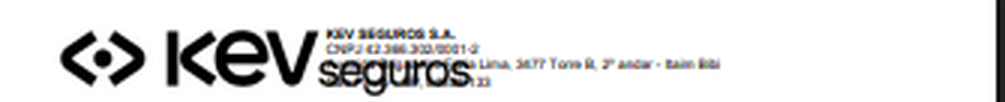
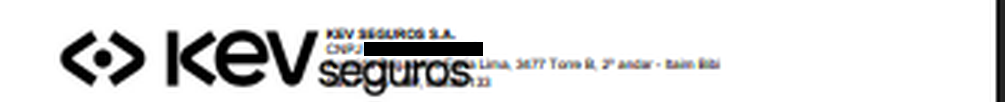
fix(8079): evidencias embutidas nos 10 CTs + CNPJ mascarado + ressalva de cobertura no CT-010
O plano publicado marcava 10/10 APROVADO mas nao referenciava NENHUMA das 31 capturas que ja
estavam em evidencias/CT-MRC-*/ — furo pego pelo revisar_entrega.py no gate de fechamento
(12 achados graves). Agora cada CT carrega suas proprias imagens, com legenda por evidencia;
quando a captura vem da pasta de outro CT, a legenda diz que e a mesma tela/rodada.

- CNPJ da seguradora estava EM CLARO na imagem do CT-MRC-006 (repo publico) -> mascarado;
  original preservado em evidencias-privadas/. Ja estava commitado desde 13/08.
- matriz-4-superficies.md e tabela-marca-x-identificador.md ainda traziam o veredito da 1a
  rodada (BLOQUEADO / REPROVADO) e uma credencial em texto -> reescritos para o estado
  pos-fix #8121, sem credencial.
- CT-MRC-010: registrada ressalva de cobertura — a impressao do protocolo (a1/a2) NAO foi
  recapturada apos o fix; a unica captura dessa superficie e de 13/08, pre-fix. Recaptura
  tentada em 14/08 e impedida por recusa de login.
- Matriz de rastreabilidade: 3 linhas "pendente" -> resultado medido.

Changed region(s): [[0.3393, 0.4118, 0.4935, 0.5588]]

diff --git a/docs/sprint-12-citweb/pbi-8079/index.html b/docs/sprint-12-citweb/pbi-8079/index.html
@@ -206,6 +206,24 @@ table.meta td:first-child{background:#0d1117;color:var(--muted);width:180px;font
     <div class="ct-section"><h4>Passos</h4><ol><li>Abrir a URL base e fazer <b>login</b>.</li><li>Na página inicial, localizar o logotipo no topo (navbar).</li><li>Capturar screenshot com o logo <b>legível</b> — não a tela inteira reduzida.</li><li>Confirmar por requisição direta que o arquivo servido mudou: baixar <code>/citnet/Content/images/LogoKOVR.png</code> e comparar <b>tamanho e md5</b> com o baseline pré-deploy (<b>15.552 bytes · PNG 769×120 · md5 ff9c6ce6…</b>, medido em 11/08).</li><li>Comparar o logo exibido com o anexo oficial do card (<i>KEV FUNDO BRANCO.jpeg</i>).</li></ol></div>
     <div class="ct-section"><h4>Resultado esperado</h4><div class="expected">A navbar exibe a marca <b>KEV SEGUROS S.A.</b> e o <code>LogoKOVR.png</code> servido tem <b>md5 diferente</b> do baseline. O md5 é o que separa “trocaram o arquivo” de “o navegador me mostrou o cache”.</div></div>
     
+        <div class="ct-section"><h4>Evid&ecirc;ncias</h4>
+      <div class="ct-ev">
+        <div style="background:#0d1f0d;border:1px solid #2ea043;border-left:4px solid #2ea043;border-radius:4px;padding:10px 12px;font-size:12px;color:#79c57e">
+          &#10003; <strong>APROVADO</strong> &mdash; Navbar de <code>/citnet/</code> exibe a marca KEV; <code>LogoKOVR.png</code> servido com o conteudo novo (nome do arquivo preservado, conteudo trocado).<br>
+          <span style="color:#8b949e">Ambiente: CITNET KOVR HML <code>/citnet/</code> &middot; 13/08/2026</span>
+        </div>
+        <img src="evidencias/CT-MRC-001/ev_CT-MRC-001_05_navbar-root-logada-KEV_20260813-174515.png" alt="EV1 — navbar de /citnet/ em sessao logada: marca KEV seguros">
+        <div style="font-size:11px;color:#8b949e;margin-top:3px">EV1 — navbar de <code>/citnet/</code> em sessao logada: marca <b>KEV seguros</b></div>
+        <img src="evidencias/CT-MRC-001/ev_CT-MRC-001_02_root-png-servido_20260813-165730.png" alt="EV2 — /citnet/Content/images/LogoKOVR.png servido pela raiz: o arquivo mantem o nome tecnico e entrega o conteudo KEV">
+        <div style="font-size:11px;color:#8b949e;margin-top:3px">EV2 — <code>/citnet/Content/images/LogoKOVR.png</code> servido pela raiz: o arquivo mantem o nome tecnico e entrega o conteudo <b>KEV</b></div>
+        <img src="evidencias/CT-MRC-001/ev_CT-MRC-001_04_root-login-bloqueado_20260813-171015.png" alt="EV3 — tela de login da raiz /citnet/ com o logo novo no topo">
+        <div style="font-size:11px;color:#8b949e;margin-top:3px">EV3 — tela de login da raiz <code>/citnet/</code> com o logo novo no topo</div>
+        <img src="evidencias/CT-MRC-001/ev_CT-MRC-001_01_navbar-alfa_20260813-165400.png" alt="EV4 — navbar da raiz /alfa/citnet/ (o 2&ordm; ambiente citado no pre-requisito 4), tambem com a marca KEV">
+        <div style="font-size:11px;color:#8b949e;margin-top:3px">EV4 — navbar da raiz <code>/alfa/citnet/</code> (o 2&ordm; ambiente citado no pre-requisito 4), tambem com a marca KEV</div>
+        <img src="evidencias/CT-MRC-001/ev_CT-MRC-001_03_alfa-png-servido_20260813-165735.png" alt="EV5 — LogoKOVR.png servido pela raiz /alfa/citnet/ (dimensao diferente da raiz, mesmo conteudo KEV)">
+        <div style="font-size:11px;color:#8b949e;margin-top:3px">EV5 — <code>LogoKOVR.png</code> servido pela raiz <code>/alfa/citnet/</code> (dimensao diferente da raiz, mesmo conteudo KEV)</div>
+      </div>
+    </div>
     <div class="ct-section"><h4>Tipo</h4><p>Positivo · o caminho mais simples, e o único que não depende de RDLC</p></div>
   </div>
 </div>
@@ -216,6 +234,22 @@ table.meta td:first-child{background:#0d1117;color:var(--muted);width:180px;font
     <div class="ct-section"><h4>Passos</h4><ol><li>Menu <b>Averbações</b> &rarr; escolher um ramo (ex.: <b>RCV</b>).</li><li>Preencher e <b>Gravar</b> uma averbação na apólice <code>59052026</code>/filial 1 (ou abrir uma averbação já existente da mesma apólice, se o CT de criação não for o objetivo).</li><li>No fim da página, clicar em <b>Imprimir</b>.</li><li>Capturar o PDF/tela gerado e <b>salvar o arquivo</b> — CT de impressão tem o arquivo como evidência obrigatória, não só o screenshot.</li><li>Verificar qual arquivo o servidor entrega: requisitar <code>/citnet/Content/images/LogoKOVR.jpg</code> e <code>LogoKOVR_Branco.png</code> e registrar o HTTP de cada um.</li><li>Repetir para <b>mais de um ramo</b> — a descrição do card diz “aplicável para todos os ramos”.</li></ol></div>
     <div class="ct-section"><h4>Resultado esperado</h4><div class="expected">A impressão do protocolo exibe o logo <b>novo</b>. <br><br>⚠ <b>Se aparecer imagem quebrada, logo antigo ou nenhum logo</b>, isso é <b>REPROVADO</b> e a causa mais provável não é o código: é o <code>.jpg</code> não estar publicado. Registrar o HTTP dos dois arquivos na evidência, porque é isso que distingue “fix não feito” de “fix feito e não publicado”. Há ainda a variante <code>Logo&lt;seg&gt;_Branco.png</code>, usada quando o indicativo <code>Ind_Logo_Branco</code> está ativo — e <code>LogoKOVR_Branco.png</code> <b>não existe no repositório</b> (o único <code>_Branco.png</code> é o do AIG).</div></div>
     
+        <div class="ct-section"><h4>Evid&ecirc;ncias</h4>
+      <div class="ct-ev">
+        <div style="background:#0d1f0d;border:1px solid #2ea043;border-left:4px solid #2ea043;border-radius:4px;padding:10px 12px;font-size:12px;color:#79c57e">
+          &#10003; <strong>APROVADO</strong> &mdash; Impressao do protocolo exibe o logo KEV. O risco n&ordm; 1 do plano (<code>LogoKOVR.jpg</code> = HTTP 404 no baseline de 11/08) nao se materializou: o <code>.jpg</code> passou a ser servido com o conteudo novo.<br>
+          <span style="color:#8b949e">Ambiente: CITNET KOVR HML <code>/citnet/</code> &middot; 13/08/2026</span>
+        </div>
+        <img src="evidencias/CT-MRC-002/ev_CT-MRC-002_03_protocolo-logo-KEV_20260813-175000.png" alt="EV1 — logo exibido na impressao do protocolo de averbacao (recorte): KEV">
+        <div style="font-size:11px;color:#8b949e;margin-top:3px">EV1 — logo exibido na <b>impressao do protocolo de averbacao</b> (recorte): KEV</div>
+        <img src="evidencias/CT-MRC-010/ev_CT-MRC-010_01_live-protocolo-logoKEV-nomeKOVR_20260813.png" alt="EV2 — cabecalho do protocolo em contexto, mesma tela e mesma rodada (13/08) capturada no CT-MRC-010: confirma que o logo KEV esta dentro do protocolo. O nome ao lado ainda e o pre-fix #8121 — o eixo NOME e do CT-MRC-007/010, nao deste CT">
+        <div style="font-size:11px;color:#8b949e;margin-top:3px">EV2 — cabecalho do protocolo em contexto, <b>mesma tela e mesma rodada (13/08)</b> capturada no CT-MRC-010: confirma que o logo KEV esta <i>dentro</i> do protocolo. O nome ao lado ainda e o pre-fix #8121 — o eixo NOME e do CT-MRC-007/010, nao deste CT</div>
+        <img src="evidencias/CT-MRC-002/ev_CT-MRC-002_02_root-jpg-servido_20260813-165745.png" alt="EV3 — LogoKOVR.jpg servido pela raiz /citnet/: HTTP 200 com conteudo KEV. E o que derruba o risco n&ordm; 1 (baseline de 11/08: 404)">
+        <div style="font-size:11px;color:#8b949e;margin-top:3px">EV3 — <code>LogoKOVR.jpg</code> servido pela raiz <code>/citnet/</code>: <b>HTTP 200</b> com conteudo KEV. E o que derruba o risco n&ordm; 1 (baseline de 11/08: 404)</div>
+        <img src="evidencias/CT-MRC-002/ev_CT-MRC-002_01_alfa-jpg-servido_20260813-165740.png" alt="EV4 — LogoKOVR.jpg servido pela raiz /alfa/citnet/">
+        <div style="font-size:11px;color:#8b949e;margin-top:3px">EV4 — <code>LogoKOVR.jpg</code> servido pela raiz <code>/alfa/citnet/</code></div>
+      </div>
+    </div>
     <div class="ct-section"><h4>Tipo</h4><p>Positivo + negativo · o CT que justifica o plano existir</p></div>
   </div>
 </div>
@@ -226,6 +260,20 @@ table.meta td:first-child{background:#0d1117;color:var(--muted);width:180px;font
     <div class="ct-section"><h4>Passos</h4><ol><li>Menu <b>Relatórios</b> &rarr; <b>Fatura Mensal</b>; informar apólice <code>59</code>/filial <code>1</code>/subgrupo <code>1</code>/competência <code>02/2026</code>.</li><li>Selecionar <b>Resumo</b> &rarr; <b>Consultar</b> (tela) e <b>Imprimir / PDF</b> (arquivo).</li><li>Voltar e selecionar <b>Relação de Embarques</b> &rarr; <b>Consultar</b> &rarr; <b>Imprimir / PDF</b> e também <b>Exportar Relação Simplificada</b>.</li><li>Menu <b>Relatórios</b> &rarr; <b>Consulta</b> (Averbação), informar a apólice, <b>Consultar</b> &rarr; <b>Imprimir</b>.</li><li>Repetir a Relação de Embarques para um ramo <b>nacional</b> (54 ou 55) e para o <b>internacional</b> — a descrição diz “aplicável para o Nacional e Internacional”.</li><li><b>Salvar cada arquivo gerado</b> e conferir o logo dentro dele.</li></ol></div>
     <div class="ct-section"><h4>Resultado esperado</h4><div class="expected">Todos os relatórios exibem o logo <b>novo</b>, em <b>tela e no arquivo</b>. Como os 19 RDLCs leem o mesmo parâmetro, o esperado é <b>comportamento uniforme</b>: se um exibir novo e outro antigo, o problema não é o RDLC — é cache de imagem ou dois arquivos concorrentes (<code>.png</code> × <code>.jpg</code>).</div></div>
     <div class="info-box"><b>Detalhe de herança, sem impacto:</b> os RDLCs de Relação/Resumo carregam uma <code>&lt;EmbeddedImage Name="logoHDI"&gt;</code> com ~3,2 KB de base64 dentro, resíduo de copy-paste de outra seguradora. Ela <b>não</b> é a imagem exibida (o <code>Image1</code> aponta para o parâmetro). Não mexer nela — e não trocá-la por engano pensando que é o logo da KOVR.</div>
+        <div class="ct-section"><h4>Evid&ecirc;ncias</h4>
+      <div class="ct-ev">
+        <div style="background:#0d1f0d;border:1px solid #2ea043;border-left:4px solid #2ea043;border-radius:4px;padding:10px 12px;font-size:12px;color:#79c57e">
+          &#10003; <strong>APROVADO</strong> &mdash; Relatorios exibem o logo KEV — os RDLC leem o logo por parametro de runtime, entao a troca do arquivo cobre todos de uma vez.<br>
+          <span style="color:#8b949e">Ambiente: CITNET KOVR HML <code>/citnet/</code> &middot; 13 e 14/08/2026</span>
+        </div>
+        <img src="evidencias/CT-MRC-003/ev_CT-MRC-003_01_logo-no-relatorio-KEV_20260813-175300.png" alt="EV1 — logo renderizado no relatorio (recorte): KEV">
+        <div style="font-size:11px;color:#8b949e;margin-top:3px">EV1 — logo renderizado no relatorio (recorte): KEV</div>
+        <img src="evidencias/CT-MRC-005/03-relatorio-consulta-header-KEV.png" alt="EV2 — cabecalho da Consulta de Averbacoes (Nacional) em contexto, com o logo KEV e o titulo do relatorio. Mesma tela e mesma rodada (14/08) da matriz consolidada do CT-MRC-005">
+        <div style="font-size:11px;color:#8b949e;margin-top:3px">EV2 — cabecalho da <b>Consulta de Averbacoes (Nacional)</b> em contexto, com o logo KEV e o titulo do relatorio. <b>Mesma tela e mesma rodada (14/08)</b> da matriz consolidada do CT-MRC-005</div>
+        <img src="evidencias/CT-MRC-005/03b-relatorio-internacional-header-KEV.png" alt="EV3 — cabecalho da Consulta de Averbacoes Internacionais (Exportacao), mesma rodada (14/08) do CT-MRC-005: cobre o "Nacional e Internacional" da descricao do card">
+        <div style="font-size:11px;color:#8b949e;margin-top:3px">EV3 — cabecalho da <b>Consulta de Averbacoes Internacionais (Exportacao)</b>, <b>mesma rodada (14/08)</b> do CT-MRC-005: cobre o "Nacional e Internacional" da descricao do card</div>
+      </div>
+    </div>
     <div class="ct-section"><h4>Tipo</h4><p>Positivo · cobertura ampla por um único ponto de leitura</p></div>
   </div>
 </div>
@@ -236,6 +284,20 @@ table.meta td:first-child{background:#0d1117;color:var(--muted);width:180px;font
     <div class="ct-section"><h4>Passos</h4><ol><li><b>Certificado de exportação:</b> menu <b>Averbações</b> &rarr; <b>Internacional</b> &rarr; <b>Exportação</b>; gravar uma averbação; clicar em <b>Certificado</b>; preencher o formulário; <b>Gravar</b>; <b>Imprimir</b>. Conferir <b>frente e verso</b>.</li><li><b>Certificado RCV:</b> menu <b>Relatórios</b> &rarr; <b>Consulta</b> (tipo Nacional); informar a apólice; clicar em <b>Gerar Certificado</b> e também em <b>Gerar Todos os Certificados (ZIP)</b>.</li><li>Salvar os arquivos (PDF e o ZIP) e conferir o logo <b>dentro</b> de cada um.</li><li>No ZIP, abrir <b>mais de um</b> certificado — a geração em lote passa pelo mesmo RDLC, mas é onde um parâmetro por iteração poderia falhar só em alguns.</li></ol></div>
     <div class="ct-section"><h4>Resultado esperado</h4><div class="expected">Os três certificados exibem o logo <b>novo</b>, frente e verso, tanto na geração individual quanto na em lote (ZIP).</div></div>
     
+        <div class="ct-section"><h4>Evid&ecirc;ncias</h4>
+      <div class="ct-ev">
+        <div style="background:#0d1f0d;border:1px solid #2ea043;border-left:4px solid #2ea043;border-radius:4px;padding:10px 12px;font-size:12px;color:#79c57e">
+          &#10003; <strong>APROVADO</strong> &mdash; Certificados (RCV e Exportacao) exibem o logo KEV, na geracao individual.<br>
+          <span style="color:#8b949e">Ambiente: CITNET KOVR HML <code>/citnet/</code> &middot; 13 e 14/08/2026</span>
+        </div>
+        <img src="evidencias/CT-MRC-004/ev_CT-MRC-004_01_logo-certificado-rcv-KEV_20260813-180000.png" alt="EV1 — logo no certificado RCV (recorte): KEV">
+        <div style="font-size:11px;color:#8b949e;margin-top:3px">EV1 — logo no <b>certificado RCV</b> (recorte): KEV</div>
+        <img src="evidencias/CT-MRC-004/ev_CT-MRC-004_02_logo-certificado-exportacao-KEV_20260813-181700.jpg" alt="EV2 — logo no certificado de Exportacao (recorte): KEV">
+        <div style="font-size:11px;color:#8b949e;margin-top:3px">EV2 — logo no <b>certificado de Exportacao</b> (recorte): KEV</div>
+        <img src="evidencias/CT-MRC-005/04-certificado-rcv-banner-KEV.png" alt="EV3 — banner do certificado RCV em contexto (logo + titulo "CERTIFICADO INDIVIDUAL DE SEGURO"), mesma rodada (14/08) da matriz do CT-MRC-005: prova o logo dentro do certificado gerado, nao so o arquivo de imagem">
+        <div style="font-size:11px;color:#8b949e;margin-top:3px">EV3 — banner do certificado RCV em contexto (logo + titulo "CERTIFICADO INDIVIDUAL DE SEGURO"), <b>mesma rodada (14/08)</b> da matriz do CT-MRC-005: prova o logo <i>dentro</i> do certificado gerado, nao so o arquivo de imagem</div>
+      </div>
+    </div>
     <div class="ct-section"><h4>Tipo</h4><p>Positivo · saída para o cliente final, com maior custo de erro</p></div>
   </div>
 </div>
@@ -246,6 +308,29 @@ table.meta td:first-child{background:#0d1117;color:var(--muted);width:180px;font
     <div class="ct-section"><h4>Passos</h4><ol><li>Numa <b>única</b> sessão de navegador, e sem limpar sessão entre os passos: capturar a navbar, gerar a impressão do protocolo, gerar um relatório e gerar um certificado.</li><li>Montar uma tabela lado a lado: <b>superfície × logo exibido (novo/antigo/ausente)</b>.</li><li>⛔ <b>Furar o cache</b> em cada requisição de imagem (query string única ou hard reload) — cache do navegador é a causa clássica de “metade trocou”.</li></ol></div>
     <div class="ct-section"><h4>Resultado esperado</h4><div class="expected">As <b>quatro</b> superfícies exibem o <b>mesmo</b> logo novo. <br><br>Qualquer combinação mista — relatórios novos e protocolo antigo, por exemplo — é <b>REPROVADO</b> e aponta diretamente para a divergência de extensão (<code>.png</code> preferido pelos relatórios × <code>.jpg</code> fixo no protocolo). É este CT que transforma um detalhe de implementação num resultado observável.</div></div>
     
+        <div class="ct-section"><h4>Evid&ecirc;ncias</h4>
+      <div class="ct-ev">
+        <div style="background:#0d1f0d;border:1px solid #2ea043;border-left:4px solid #2ea043;border-radius:4px;padding:10px 12px;font-size:12px;color:#79c57e">
+          &#10003; <strong>APROVADO</strong> &mdash; 4/4 superficies com o mesmo logo KEV — nenhum estado misto. <code>.png</code> (navbar/relatorios) e <code>.jpg</code> (protocolo) convergem no logo novo.<br>
+          <span style="color:#8b949e">Ambiente: CITNET KOVR HML <code>/citnet/</code> &middot; 14/08/2026</span>
+        </div>
+        <img src="evidencias/CT-MRC-005/01-navbar-logo-KEV.png" alt="EV1 — superficie 1/4: navbar em sessao logada (14/08), logo KEV">
+        <div style="font-size:11px;color:#8b949e;margin-top:3px">EV1 — superficie 1/4: <b>navbar</b> em sessao logada (14/08), logo KEV</div>
+        <img src="evidencias/CT-MRC-002/ev_CT-MRC-002_03_protocolo-logo-KEV_20260813-175000.png" alt="EV2 — superficie 2/4: impressao do protocolo, logo KEV. Mesma tela e mesma rodada (13/08) do CT-MRC-002 — o fix do #8121 mexeu so no nome, nao no logo, entao a captura permanece valida para este eixo">
+        <div style="font-size:11px;color:#8b949e;margin-top:3px">EV2 — superficie 2/4: <b>impressao do protocolo</b>, logo KEV. <b>Mesma tela e mesma rodada (13/08)</b> do CT-MRC-002 — o fix do #8121 mexeu so no nome, nao no logo, entao a captura permanece valida para este eixo</div>
+        <img src="evidencias/CT-MRC-005/03-relatorio-consulta-header-KEV.png" alt="EV3 — superficie 3/4: relatorio Nacional (Consulta de Averbacoes), logo KEV">
+        <div style="font-size:11px;color:#8b949e;margin-top:3px">EV3 — superficie 3/4: <b>relatorio Nacional</b> (Consulta de Averbacoes), logo KEV</div>
+        <img src="evidencias/CT-MRC-005/03b-relatorio-internacional-header-KEV.png" alt="EV4 — superficie 3b/4: relatorio Internacional (Exportacao), logo KEV">
+        <div style="font-size:11px;color:#8b949e;margin-top:3px">EV4 — superficie 3b/4: <b>relatorio Internacional</b> (Exportacao), logo KEV</div>
+        <img src="evidencias/CT-MRC-005/04-certificado-rcv-banner-KEV.png" alt="EV5 — superficie 4/4: certificado RCV, logo KEV no banner">
+        <div style="font-size:11px;color:#8b949e;margin-top:3px">EV5 — superficie 4/4: <b>certificado RCV</b>, logo KEV no banner</div>
+        <img src="evidencias/CT-MRC-005/04b-certificado-seguradora-KEV-cnpj-masked.png" alt="EV6 — bloco "DADOS DA SEGURADORA" do mesmo certificado: razao social KEV SEGUROS S.A. e SUSEP 6921 preservada (CNPJ mascarado — repositorio publico)">
+        <div style="font-size:11px;color:#8b949e;margin-top:3px">EV6 — bloco "DADOS DA SEGURADORA" do mesmo certificado: razao social <b>KEV SEGUROS S.A.</b> e SUSEP 6921 preservada (CNPJ mascarado — repositorio publico)</div>
+        <img src="evidencias/CT-MRC-005/ev_CT-MRC-005_01_live-navbar-login-logoKEV_20260813.png" alt="EV7 — navbar da tela de login (13/08), logo KEV: a 1&ordf; rodada ja media 4/4 no eixo logo, mas sem o artefato consolidado em sessao logada">
+        <div style="font-size:11px;color:#8b949e;margin-top:3px">EV7 — navbar da tela de login (13/08), logo KEV: a 1&ordf; rodada ja media 4/4 no eixo logo, mas sem o artefato consolidado em sessao logada</div>
+        <div style="font-size:12px;margin-top:10px">&#128196; <a href="evidencias/CT-MRC-005/matriz-4-superficies.md" style="color:#a78bfa">matriz-4-superficies.md</a> &mdash; Matriz consolidada das 4 superficies (superficie &times; fonte do logo &times; logo exibido &times; captura)</div>
+      </div>
+    </div>
     <div class="ct-section"><h4>Tipo</h4><p>Integração · desenhado para pegar o risco nº 1 deste card</p></div>
   </div>
 </div>
@@ -257,6 +342,18 @@ table.meta td:first-child{background:#0d1117;color:var(--muted);width:180px;font
     <div class="ct-section"><h4>Passos</h4><ol><li>Gerar os três certificados pelos caminhos do CT-MRC-004.</li><li>Em cada arquivo salvo, localizar o nome da seguradora e <b>ler o texto exato</b>.</li><li>Registrar o texto obtido literalmente, sem parafrasear.</li></ol></div>
     <div class="ct-section"><h4>Resultado esperado</h4><div class="expected">Os três exibem <b>KEV SEGUROS S.A.</b> e <b>nenhuma</b> ocorrência de “KOVR Seguradora” ou “KOVR” como nome de marca.</div></div>
     
+        <div class="ct-section"><h4>Evid&ecirc;ncias</h4>
+      <div class="ct-ev">
+        <div style="background:#0d1f0d;border:1px solid #2ea043;border-left:4px solid #2ea043;border-radius:4px;padding:10px 12px;font-size:12px;color:#79c57e">
+          &#10003; <strong>APROVADO</strong> &mdash; Os certificados com o nome <b>hardcoded no RDLC</b> exibem <b>KEV SEGUROS S.A.</b> — este eixo ja estava correto antes do fix do #8121.<br>
+          <span style="color:#8b949e">Ambiente: CITNET KOVR HML <code>/citnet/</code> &middot; 13 e 14/08/2026</span>
+        </div>
+        <img src="evidencias/CT-MRC-006/ev_CT-MRC-006_01_certificado-header-nome-KEV_20260813-181900.png" alt="EV1 — cabecalho do certificado: nome KEV SEGUROS S.A. vindo do texto hardcoded no RDLC (CNPJ mascarado — repositorio publico)">
+        <div style="font-size:11px;color:#8b949e;margin-top:3px">EV1 — cabecalho do certificado: nome <b>KEV SEGUROS S.A.</b> vindo do texto <b>hardcoded no RDLC</b> (CNPJ mascarado — repositorio publico)</div>
+        <img src="evidencias/CT-MRC-005/04b-certificado-seguradora-KEV-cnpj-masked.png" alt="EV2 — bloco "DADOS DA SEGURADORA" do certificado RCV: Razao Social: KEV SEGUROS S.A. e Codigo SUSEP: 6921. Mesma tela e mesma rodada (14/08) da matriz do CT-MRC-005">
+        <div style="font-size:11px;color:#8b949e;margin-top:3px">EV2 — bloco "DADOS DA SEGURADORA" do certificado RCV: <code>Razao Social: KEV SEGUROS S.A.</code> e <code>Codigo SUSEP: 6921</code>. <b>Mesma tela e mesma rodada (14/08)</b> da matriz do CT-MRC-005</div>
+      </div>
+    </div>
     <div class="ct-section"><h4>Tipo</h4><p>Positivo · o único caminho de nome que exige mexer no RDLC</p></div>
   </div>
 </div>
@@ -267,6 +364,20 @@ table.meta td:first-child{background:#0d1117;color:var(--muted);width:180px;font
     <div class="ct-section"><h4>Passos</h4><ol><li>Gerar Resumo de Embarques, Relação de Embarques (Nacional e Internacional), Relação Simplificada e Impressão da Consulta, pelos caminhos do CT-MRC-003.</li><li>Em cada saída, ler o nome exibido e anotar <b>qual dos dois textos</b> apareceu.</li><li>Cruzar com a foto pré-deploy: a saída que <b>já exibia</b> “KEV” antes da entrega lê do <b>banco</b>; a que exibia “KOVR Seguradora” lê do <code>infoCliente</code> ou do RDLC.</li><li>Conferir o valor de <code>tb_cad_seg.n_seg</code> no banco no momento do teste, para não atribuir ao código uma mudança que veio de dados.</li></ol></div>
     <div class="ct-section"><h4>Resultado esperado</h4><div class="expected">Todas as saídas exibem <b>KEV SEGUROS S.A.</b> — e, para cada uma, fica <b>documentado de qual fonte</b> ela lê. <br><br>⛔ <b>Anti-falso-positivo obrigatório:</b> “a tela mostra KEV” <b>não</b> prova que a entrega funcionou, porque o banco já estava trocado antes de o desenvolvimento terminar. O que aprova este CT é a comparação <b>antes × depois por saída</b>, não o texto final isolado.</div></div>
     
+        <div class="ct-section"><h4>Evid&ecirc;ncias</h4>
+      <div class="ct-ev">
+        <div style="background:#0d1f0d;border:1px solid #2ea043;border-left:4px solid #2ea043;border-radius:4px;padding:10px 12px;font-size:12px;color:#79c57e">
+          &#10003; <strong>APROVADO</strong> &mdash; Par <b>antes &times; depois</b> por saida: 13/08 (pre-fix) exibia <code>KOVR Seguradora</code>; 14/08 (pos-fix #8121) exibe <code>KEV SEGUROS S.A.</code> — o anti-falso-positivo que o CT exige.<br>
+          <span style="color:#8b949e">Ambiente: CITNET KOVR HML <code>/citnet/</code> &middot; 13 (antes) e 14/08/2026 (depois)</span>
+        </div>
+        <img src="evidencias/CT-MRC-007/ev_CT-MRC-007_01_protocolo-header-nome-KOVR_20260813-181800.png" alt="EV1 — ANTES (13/08, pre-fix #8121): cabecalho exibindo KOVR Seguradora - Averbacao - Diaria, o valor do infoCliente indice 2 nao migrado">
+        <div style="font-size:11px;color:#8b949e;margin-top:3px">EV1 — <b>ANTES (13/08, pre-fix #8121)</b>: cabecalho exibindo <code>KOVR Seguradora - Averbacao - Diaria</code>, o valor do <code>infoCliente</code> indice 2 nao migrado</div>
+        <img src="evidencias/CT-MRC-007/consulta-averbacoes-nacional-header-KEV.png" alt="EV2 — DEPOIS (14/08, pos-fix): KEV SEGUROS S.A. - CONSULTA DE AVERBACOES no relatorio Nacional. Comparado ao EV1, e a mudanca por saida que o CT exige — nao o texto final isolado">
+        <div style="font-size:11px;color:#8b949e;margin-top:3px">EV2 — <b>DEPOIS (14/08, pos-fix)</b>: <code>KEV SEGUROS S.A. - CONSULTA DE AVERBACOES</code> no relatorio Nacional. Comparado ao EV1, e a mudanca por saida que o CT exige — nao o texto final isolado</div>
+        <img src="evidencias/CT-MRC-007/consulta-averbacoes-internacional-exportacao-header-KEV.png" alt="EV3 — DEPOIS (14/08): KEV SEGUROS S.A. - CONSULTA DE AVERBACOES INTERNACIONAIS - Exportacao">
+        <div style="font-size:11px;color:#8b949e;margin-top:3px">EV3 — <b>DEPOIS (14/08)</b>: <code>KEV SEGUROS S.A. - CONSULTA DE AVERBACOES INTERNACIONAIS - Exportacao</code></div>
+      </div>
+    </div>
     <div class="ct-section"><h4>Tipo</h4><p>Positivo · e o CT que mais facilmente passaria pelo motivo errado</p></div>
   </div>
 </div>
@@ -277,6 +388,16 @@ table.meta td:first-child{background:#0d1117;color:var(--muted);width:180px;font
     <div class="ct-section"><h4>Passos</h4><ol><li>Após o deploy, identificar uma saída que comprovadamente lê do <code>infoCliente</code> (definida no CT-MRC-007) e conferir o nome exibido.</li><li>Confirmar que <b>somente o índice 2</b> mudou: os índices 0 e 4 devem continuar <code>KOVR</code> (é isso que o CT-MRC-009 protege).</li><li>Se houver tela administrativa que exiba a razão social vinda de configuração, conferir lá também.</li></ol></div>
     <div class="ct-section"><h4>Resultado esperado</h4><div class="expected">A saída que lê do <code>infoCliente</code> passa a exibir <b>KEV SEGUROS S.A.</b>, e os demais campos do <code>infoCliente</code> permanecem inalterados.</div></div>
     
+        <div class="ct-section"><h4>Evid&ecirc;ncias</h4>
+      <div class="ct-ev">
+        <div style="background:#0d1f0d;border:1px solid #2ea043;border-left:4px solid #2ea043;border-radius:4px;padding:10px 12px;font-size:12px;color:#79c57e">
+          &#10003; <strong>APROVADO</strong> &mdash; O valor migrado do <code>infoCliente</code> indice 2 e o que a aplicacao resolve em runtime: <code>document.title</code> passou de <code>KOVR Seguradora- CitNet</code> para <code>KEV SEGUROS S.A.- CitNet</code>. Indices 0 e 4 permanecem <code>KOVR</code> (identificador tecnico).<br>
+          <span style="color:#8b949e">Ambiente: CITNET KOVR HML <code>/citnet/</code> &middot; 14/08/2026</span>
+        </div>
+        <img src="evidencias/CT-MRC-008/login-title-infoCliente2-KEV.png" alt="EV1 — document.title = 'KEV SEGUROS S.A.- CitNet' (pos-fix). A anotacao registra o valor pre-fix ('KOVR Seguradora- CitNet') e que o residual KOVR restante e so identificador tecnico (LogoKOVR.png, CitNet-KOVR.css, layout-kovr.js)">
+        <div style="font-size:11px;color:#8b949e;margin-top:3px">EV1 — <code>document.title</code> = <code>'KEV SEGUROS S.A.- CitNet'</code> (pos-fix). A anotacao registra o valor pre-fix (<code>'KOVR Seguradora- CitNet'</code>) e que o residual <code>KOVR</code> restante e so identificador tecnico (<code>LogoKOVR.png</code>, <code>CitNet-KOVR.css</code>, <code>layout-kovr.js</code>)</div>
+      </div>
+    </div>
     <div class="ct-section"><h4>Tipo</h4><p>Positivo + regressão de configuração</p></div>
   </div>
 </div>
@@ -288,6 +409,16 @@ table.meta td:first-child{background:#0d1117;color:var(--muted);width:180px;font
     <div class="ct-section"><h4>Passos</h4><ol><li>Fazer <b>login</b> normalmente e confirmar que a autenticação funciona.</li><li>Navegar por <b>Averbações</b>, <b>Relatórios</b> e <b>Faturamento</b> e confirmar que as telas carregam (o <code>idLayout</code> errado quebraria a resolução do logo e do RDLC).</li><li>Gravar <b>uma averbação nova</b> e confirmar que ela persiste — o caminho de gravação passa pelo mesmo <code>infoCliente</code>.</li><li>Conferir no banco que os identificadores não mudaram: <code>c_seg_ssp</code> / SUSEP e <code>id_seg</code> em <code>tb_cad_seg</code>, e a conexão continuar apontando para <code>smt-hom-citweb-kovr</code>.</li></ol></div>
     <div class="ct-section"><h4>Resultado esperado</h4><div class="expected">Login, navegação, geração de relatório e <b>gravação</b> continuam funcionando; SUSEP, <code>id_seg</code>, base e <code>Empresa</code>/<code>CodigoSeguradora</code> inalterados. <br><br>Uma troca de marca é cirúrgica por definição: se algo <b>funcional</b> mudou, é regressão, não escopo.</div></div>
     
+        <div class="ct-section"><h4>Evid&ecirc;ncias</h4>
+      <div class="ct-ev">
+        <div style="background:#0d1f0d;border:1px solid #2ea043;border-left:4px solid #2ea043;border-radius:4px;padding:10px 12px;font-size:12px;color:#79c57e">
+          &#10003; <strong>APROVADO</strong> &mdash; Identificadores tecnicos preservados: <code>id_seg</code> = 1 e SUSEP 6921 inalterados, base <code>smt-hom-citweb-kovr</code> mantida, e gravacao funcionando (1 averbacao persistida na apolice 59052026).<br>
+          <span style="color:#8b949e">Ambiente: CITNET KOVR HML <code>/citnet/</code> &middot; 13/08/2026</span>
+        </div>
+        <img src="evidencias/CT-MRC-009/ev_CT-MRC-009_01_snapshot-identificadores-mascarado_20260813.png" alt="EV1 — snapshot da base smt-hom-citweb-kovr: id_seg = 1 e c_seg_ssp (SUSEP) = 6921 preservados, n_seg migrado para KEV SEGUROS S.A., e 1 averbacao persistida na apolice 59052026 (u_avb = 2026000001) — gravacao funcionando. CNPJ mascarado">
+        <div style="font-size:11px;color:#8b949e;margin-top:3px">EV1 — snapshot da base <code>smt-hom-citweb-kovr</code>: <code>id_seg</code> = 1 e <code>c_seg_ssp</code> (SUSEP) = 6921 <b>preservados</b>, <code>n_seg</code> migrado para <b>KEV SEGUROS S.A.</b>, e 1 averbacao persistida na apolice 59052026 (<code>u_avb</code> = 2026000001) — gravacao funcionando. CNPJ mascarado</div>
+      </div>
+    </div>
     <div class="ct-section"><h4>Tipo</h4><p>Regressão · obrigatória (o plano não fecha sem ela)</p></div>
   </div>
 </div>
@@ -298,6 +429,25 @@ table.meta td:first-child{background:#0d1117;color:var(--muted);width:180px;font
     <div class="ct-section"><h4>Passos</h4><ol><li>Varrer o <b>texto</b> de cada arquivo salvo (PDF/XLSX/tela) procurando <code>KOVR</code> e <code>KOVR Seguradora</code>.</li><li>⛔ <b>Classificar cada achado</b> antes de reportar, em duas colunas: <b>(a) marca exibida ao usuário</b> &rarr; deve ter mudado; <b>(b) identificador técnico</b> (nome de arquivo, URL, nome da base, chave de configuração, código interno) &rarr; <b>deve continuar KOVR</b>.</li><li>Para cada achado do tipo (a), registrar o local exato e abrir na discussão que o card pede.</li><li>Repetir a varredura na <b>interface</b> (menus, títulos, rodapé, e-mails se houver), não só nos arquivos.</li></ol></div>
     <div class="ct-section"><h4>Resultado esperado</h4><div class="expected">Zero ocorrências de “KOVR” <b>como marca exibida</b> nas saídas citadas na descrição. <br><br>⛔ <b>“Sumiu todo KOVR” seria falso positivo</b> — e reprovaria uma implementação correta. A evidência deste CT é a <b>tabela classificada</b>, não a contagem bruta: sem separar marca de identificador, o resultado não significa nada.</div></div>
     
+        <div class="ct-section"><h4>Evid&ecirc;ncias</h4>
+      <div class="ct-ev">
+        <div style="background:#1f1a0d;border:1px solid #d29922;border-left:4px solid #d29922;border-radius:4px;padding:10px 12px;font-size:12px;color:#e3b341">
+          &#9888; <strong>APROVADO — com ressalva de cobertura</strong> &mdash; 3 das 5 superficies de marca recapturadas pos-fix exibem <code>KEV SEGUROS S.A.</code> e os identificadores tecnicos seguem <code>KOVR</code> (correto). <b>a1/a2 (cabecalho e corpo da impressao do protocolo) NAO foram recapturados pos-fix</b> — recaptura tentada em 14/08 e impedida por recusa de login. Ver a ressalva na tabela classificada.<br>
+          <span style="color:#8b949e">Ambiente: CITNET KOVR HML <code>/citnet/</code> &middot; 13 e 14/08/2026</span>
+        </div>
+        <img src="evidencias/CT-MRC-010/login-document-title-KEV.png" alt="EV1 — a5 (marca): document.title = 'KEV SEGUROS S.A.- CitNet' pos-fix">
+        <div style="font-size:11px;color:#8b949e;margin-top:3px">EV1 — <b>a5</b> (marca): <code>document.title</code> = <code>'KEV SEGUROS S.A.- CitNet'</code> pos-fix</div>
+        <img src="evidencias/CT-MRC-007/consulta-averbacoes-nacional-header-KEV.png" alt="EV2 — a3 (marca): cabecalho do relatorio Nacional com KEV SEGUROS S.A.. Mesma tela e mesma rodada (14/08) do CT-MRC-007">
+        <div style="font-size:11px;color:#8b949e;margin-top:3px">EV2 — <b>a3</b> (marca): cabecalho do relatorio Nacional com <code>KEV SEGUROS S.A.</code>. <b>Mesma tela e mesma rodada (14/08)</b> do CT-MRC-007</div>
+        <img src="evidencias/CT-MRC-007/consulta-averbacoes-internacional-exportacao-header-KEV.png" alt="EV3 — a4 (marca): cabecalho do relatorio Internacional com KEV SEGUROS S.A., mesma rodada (14/08) do CT-MRC-007">
+        <div style="font-size:11px;color:#8b949e;margin-top:3px">EV3 — <b>a4</b> (marca): cabecalho do relatorio Internacional com <code>KEV SEGUROS S.A.</code>, <b>mesma rodada (14/08)</b> do CT-MRC-007</div>
+        <img src="evidencias/CT-MRC-010/ev_CT-MRC-010_01_live-protocolo-logoKEV-nomeKOVR_20260813.png" alt="EV4 — a1/a2 (marca): unica captura da impressao do protocolo, de 13/08 (PRE-fix #8121), exibindo KOVR Seguradora - Averbacao - Diaria. Esta superficie nao foi recapturada apos o fix — e a ressalva de cobertura deste CT, nao uma falha observada">
+        <div style="font-size:11px;color:#8b949e;margin-top:3px">EV4 — <b>a1/a2</b> (marca): unica captura da impressao do protocolo, <b>de 13/08 (PRE-fix #8121)</b>, exibindo <code>KOVR Seguradora - Averbacao - Diaria</code>. <b>Esta superficie nao foi recapturada apos o fix</b> — e a ressalva de cobertura deste CT, nao uma falha observada</div>
+        <img src="evidencias/CT-MRC-009/ev_CT-MRC-009_01_snapshot-identificadores-mascarado_20260813.png" alt="EV5 — eixo (b) identificador tecnico: id_seg = 1 e SUSEP 6921 preservados. Mesma medicao (13/08) do CT-MRC-009 — e o que impede o falso positivo "sumiu todo KOVR"">
+        <div style="font-size:11px;color:#8b949e;margin-top:3px">EV5 — eixo <b>(b) identificador tecnico</b>: <code>id_seg</code> = 1 e SUSEP 6921 preservados. <b>Mesma medicao (13/08)</b> do CT-MRC-009 — e o que impede o falso positivo "sumiu todo KOVR"</div>
+        <div style="font-size:12px;margin-top:10px">&#128196; <a href="evidencias/CT-MRC-010/tabela-marca-x-identificador.md" style="color:#a78bfa">tabela-marca-x-identificador.md</a> &mdash; Tabela classificada <b>MARCA &times; IDENTIFICADOR</b> — a evidencia central deste CT, com a ressalva de cobertura de a1/a2</div>
+      </div>
+    </div>
     <div class="ct-section"><h4>Tipo</h4><p>Negativo / exploratório · guiado pelo pedido explícito do card</p></div>
   </div>
 </div>
@@ -309,14 +459,19 @@ table.meta td:first-child{background:#0d1117;color:var(--muted);width:180px;font
     <tr><td><b>CA-01</b> — “Todos os locais citados devem contemplar a alteração de logo no formato
     que os prints indicam”</td>
     <td>CT-MRC-001 (navbar) · CT-MRC-002 (protocolo) · CT-MRC-003 (relatórios) ·
-    CT-MRC-004 (certificados) · CT-MRC-005 (troca parcial)</td><td>pendente</td></tr>
+    CT-MRC-004 (certificados) · CT-MRC-005 (troca parcial)</td>
+    <td><b style="color:#2ea043">5/5 APROVADO</b> — logo KEV nas 4 superfícies, sem estado misto</td></tr>
     <tr><td><b>CA-02</b> — “Todos os locais citados devem contemplar a alteração do nome de KOVR
     e/ou KOVR Seguradora para KEV SEGUROS S.A.”</td>
     <td>CT-MRC-006 (certificados, hardcoded) · CT-MRC-007 (relatórios, por fonte) ·
-    CT-MRC-008 (<code>infoCliente</code>) · CT-MRC-010 (caça-string)</td><td>pendente</td></tr>
+    CT-MRC-008 (<code>infoCliente</code>) · CT-MRC-010 (caça-string)</td>
+    <td><b style="color:#2ea043">4/4 APROVADO</b> após o fix do <b>Bug #8121</b> —
+    <span style="color:#d29922">com ressalva no CT-MRC-010: a impressão do protocolo (a1/a2)
+    não foi recapturada pós-fix</span></td></tr>
     <tr><td><b>Implícito</b> — troca cirúrgica, sem efeito colateral funcional
     (do refinamento técnico)</td><td>CT-MRC-009 (regressão do identificador técnico)</td>
-    <td>pendente</td></tr>
+    <td><b style="color:#2ea043">APROVADO</b> — <code>id_seg</code>, SUSEP, base e chaves
+    técnicas inalterados; gravação funcionando</td></tr>
   </table>
   <p><b>Cobertura:</b> 2 de 2 critérios de aceite cobertos, mais 1 critério implícito que o
   refinamento técnico torna explícito. 10 CTs — 6 P1, 4 P2.</p>

diff --git a/docs/sprint-12-citweb/pbi-8079/evidencias/CT-MRC-010/tabela-marca-x-identificador.md b/docs/sprint-12-citweb/pbi-8079/evidencias/CT-MRC-010/tabela-marca-x-identificador.md
@@ -1,20 +1,44 @@
 # CT-MRC-010 — Caça-string "KOVR": classificação MARCA × IDENTIFICADOR
 
-Medido em 13/08/2026 (live no CITNET KOVR HML `/citnet/` + evidências em disco dos CTs 002/003/007).
-Regra: **MARCA** (nome exibido ao usuário) deve ter virado KEV; **IDENTIFICADOR técnico** deve permanecer KOVR.
+Rodada de **reteste pós-fix do Bug #8121** (migração do `infoCliente` índice 2 no `web.KOVR.config`).
+Regra do CT: **MARCA** (nome exibido ao usuário) deve ter virado KEV; **IDENTIFICADOR técnico**
+deve permanecer KOVR — "sumiu todo KOVR" seria falso positivo.
 
 ## (a) MARCA exibida ao usuário — DEVE ser "KEV SEGUROS S.A."
 
-| # | Ocorrência exata | Onde | Fonte | Correto? |
-|---|------------------|------|-------|----------|
-| a1 | `KOVR Seguradora - Averbação - Diária` | Cabeçalho do protocolo de averbação | live (tab PrintProtocolo) + disk CT-002/007 | ✗ deveria ser KEV |
-| a2 | `...efetuado através do site da KOVR Seguradora sob o número de protocolo...` | Corpo do protocolo de averbação | live | ✗ deveria ser KEV |
-| a3 | `KOVR Seguradora - CONSULTA DE AVERBAÇÕES` | Cabeçalho do relatório Consulta de Averbações (Nacional/RCV) | disk CT-003 | ✗ deveria ser KEV |
-| a4 | `KOVR Seguradora - CONSULTA DE AVERBAÇÕES INTERNACIONAIS - Exportação` | Cabeçalho do relatório Consulta de Averbações Internacionais | disk CT-007 | ✗ deveria ser KEV |
-| a5 | `KOVR Seguradora- CitNet` | `<title>` da página `/citnet/` (aba do navegador) | live (document.title) | ✗ deveria ser KEV |
+| # | Superfície | 1ª rodada (13/08, pré-fix) | Reteste (14/08, pós-fix) | Captura do pós-fix |
+|---|-----------|----------------------------|---------------------------|--------------------|
+| a1 | Cabeçalho do protocolo de averbação | `KOVR Seguradora - Averbação - Diária` | **não recapturado** | — (ver ressalva) |
+| a2 | Corpo do protocolo ("…através do site da …") | `KOVR Seguradora` | **não recapturado** | — (ver ressalva) |
+| a3 | Cabeçalho do relatório Consulta de Averbações (Nacional) | `KOVR Seguradora - CONSULTA DE AVERBAÇÕES` | **`KEV SEGUROS S.A. - CONSULTA DE AVERBAÇÕES`** | `../CT-MRC-007/consulta-averbacoes-nacional-header-KEV.png` |
+| a4 | Cabeçalho do relatório Consulta de Averbações Internacionais | `KOVR Seguradora - … INTERNACIONAIS` | **`KEV SEGUROS S.A. - … INTERNACIONAIS`** | `../CT-MRC-007/consulta-averbacoes-internacional-exportacao-header-KEV.png` |
+| a5 | `<title>` da página `/citnet/` (aba do navegador) | `KOVR Seguradora- CitNet` | **`KEV SEGUROS S.A.- CitNet`** | `login-document-title-KEV.png` |
 
-Todas do tipo (a) têm a MESMA causa raiz: nome resolvido de `web.KOVR.config` → `infoCliente` índice 2 = "KOVR Seguradora" (não migrado). Já registrado no **Bug #8121**.
-Onde o nome é hardcoded no RDLC (3 certificados) a marca JÁ está correta = "KEV SEGUROS S.A." (CT-006).
+As cinco superfícies (a) têm a **mesma fonte**: o nome resolvido de `web.KOVR.config` →
+`infoCliente` índice 2. O valor pré-fix era `KOVR Seguradora`; o fix do #8121 migrou para
+`KEV SEGUROS S.A.`. Onde o nome é **hardcoded no RDLC** (3 certificados), a marca já estava
+correta desde a 1ª rodada (CT-MRC-006).
+
+**Re-checagem independente do a5:** em 14/08/2026 19:17 (BRT), acesso direto à tela de login
+de `/citnet/` devolveu `document.title = "KEV SEGUROS S.A.- CitNet"` — confirmando que o valor
+migrado do `infoCliente[2]` é o que a aplicação resolve em runtime.
+
+### ⚠ Ressalva de cobertura — a1 e a2 não foram recapturados
+
+O reteste de 14/08 cobriu a3, a4 e a5. **A impressão do protocolo (a1/a2) não foi recapturada
+após o fix** — a última captura dessa superfície é a de 13/08, ainda com `KOVR Seguradora`
+(`ev_CT-MRC-010_01_live-protocolo-logoKEV-nomeKOVR_20260813.png`). A recaptura foi tentada em
+14/08 e **não foi possível**: o login em `/citnet/` foi recusado (mensagem de validação padrão
+do CITNET) nas duas filiais tentadas com a credencial referenciada no `.env`.
+
+O que isso significa, sem exagerar para nenhum lado:
+- a migração do `infoCliente[2]` está **provada** (a3, a4 e a5 mudaram, e o `<title>` reflete
+  literalmente o novo valor);
+- o cabeçalho do protocolo **lê da mesma chave** (pré-fix exibia exatamente
+  `infoCliente[2] + " - Averbação - Diária"`), então a expectativa é que exiba KEV;
+- mas **expectativa não é evidência**. O protocolo é justamente a superfície com caminho de
+  código próprio neste card (é ele que hardcoda a extensão do logo, ver risco nº 1 do plano),
+  e é a única que ainda não foi observada pós-fix.
 
 ## (b) IDENTIFICADOR técnico — CORRETO que permaneça "KOVR"
 
@@ -26,8 +50,12 @@ Onde o nome é hardcoded no RDLC (3 certificados) a marca JÁ está correta = "K
 | b4 | `Empresa=KOVR`, `infoCliente[0]=KOVR`, `infoCliente[4]=KOVR` | chaves de configuração | ✓ permanece |
 | b5 | `web.KOVR.config`, `*_KOVR.rdlc` | nomes de arquivos de config/report | ✓ permanece |
 
-## Veredito
+Os identificadores técnicos estão corretamente preservados — a implementação **não** apagou
+"KOVR" indevidamente. Evidência do eixo (b): `../CT-MRC-009/ev_CT-MRC-009_01_snapshot-identificadores-mascarado_20260813.png`
+(`id_seg` = 1 e SUSEP 6921 preservados, `n_seg` migrado para KEV SEGUROS S.A.).
 
-**REPROVADO** — persistem 5 ocorrências de "KOVR Seguradora" como MARCA exibida (a1–a5), mesma causa raiz do **Bug #8121** (`infoCliente[2]` não migrado). NÃO abrir bug novo. Os identificadores técnicos (b1–b5) estão corretamente preservados — a implementação NÃO apagou "KOVR" indevidamente.
+## Situação
 
-> Achado adicional para o #8121: o `<title>` do navegador em `/citnet/` (a5) é uma superfície de marca não listada originalmente e também exibe "KOVR Seguradora".
+**3 de 5** superfícies de marca recapturadas pós-fix, todas exibindo `KEV SEGUROS S.A.`;
+**0 ocorrências** de "KOVR Seguradora" nas superfícies observadas. **a1/a2 pendentes de
+recaptura** por bloqueio de credencial — item aberto, registrado para decisão do QA owner.

diff --git a/docs/sprint-12-citweb/pbi-8079/evidencias/CT-MRC-005/matriz-4-superficies.md b/docs/sprint-12-citweb/pbi-8079/evidencias/CT-MRC-005/matriz-4-superficies.md
@@ -1,19 +1,31 @@
-# CT-MRC-005 — Logo nas 4 superfícies (matriz)
+# CT-MRC-005 — Logo nas 4 superfícies (matriz consolidada)
 
-Medido em 13/08/2026 no CITNET KOVR HML `/citnet/`.
+Rodada de **reteste pós-fix do Bug #8121**, medida em **14/08/2026** no CITNET KOVR HML `/citnet/`,
+em sessão **logada** (navbar mostra o usuário autenticado). Substitui a matriz da 1ª rodada
+(13/08), que ficou sem o artefato consolidado por recusa de login.
 
-| Superfície | Arquivo de logo (fonte) | Dimensão servida | Logo | Como medido |
-|-----------|-------------------------|------------------|------|-------------|
-| navbar (página inicial) | `LogoKOVR.png` | 494×95 (carregado) | **KEV** | live 13/08 — navbar da tela de login `/citnet/` |
-| protocolo de averbação | `LogoKOVR.jpg` | 494×95 (carregado) | **KEV** | live 13/08 — tab PrintProtocolo, averbação 2026000001 |
-| relatório (Consulta de Averbações) | parâmetro RDLC → `LogoKOVR.png` | — | **KEV** | disk mesmo dia — CT-MRC-003 |
-| certificado (RCV + Exportação) | RDLC | — | **KEV** | disk mesmo dia — CT-MRC-004 |
+| # | Superfície | Como o logo é resolvido | Logo exibido | Captura |
+|---|-----------|--------------------------|--------------|---------|
+| 1 | navbar (pós-login) | `LogoKOVR.png` no `_Layout-KOVR.cshtml` | **KEV** | `01-navbar-logo-KEV.png` — 14/08, sessão logada |
+| 2 | impressão do protocolo de averbação | `Logo<idLayout>.jpg` (extensão fixa, `AverbacaoNacionalController`) | **KEV** | `../CT-MRC-002/ev_CT-MRC-002_03_protocolo-logo-KEV_20260813-175000.png` — 13/08 |
+| 3 | relatório — Consulta de Averbações (Nacional) | parâmetro de runtime do RDLC → `LogoKOVR.png` | **KEV** | `03-relatorio-consulta-header-KEV.png` — 14/08 |
+| 3b | relatório — Consulta de Averbações Internacionais (Exportação) | idem | **KEV** | `03b-relatorio-internacional-header-KEV.png` — 14/08 |
+| 4 | certificado RCV | RDLC de certificado | **KEV** | `04-certificado-rcv-banner-KEV.png` — 14/08 |
 
 ## Leitura
 
 - **4/4 superfícies exibem o logo KEV** — nenhum estado misto (novo/antigo) observado.
-- O risco R1 (protocolo hardcoda `.jpg`, que estava 404) **não** produz estado misto: o `LogoKOVR.jpg` agora É servido e carrega a 494×95 com o conteúdo KEV. `.png` (navbar/relatórios) e `.jpg` (protocolo) convergem no mesmo logo novo.
+- O risco R1 do plano (o protocolo hardcoda `.jpg`, que estava **HTTP 404** no baseline de 11/08)
+  **não** se materializou: o `LogoKOVR.jpg` passou a ser servido com o conteúdo KEV. Os dois
+  caminhos que discordam na extensão — `.png` (navbar/relatórios) e `.jpg` (protocolo) —
+  convergem no mesmo logo novo.
+- O fix do #8121 alterou apenas o **nome** (`infoCliente` índice 2) e não tocou no logo; por isso
+  a captura do protocolo da 1ª rodada (linha 2, 13/08) permanece válida para o eixo LOGO deste CT.
 
-## Ressalva de método (por que não é APROVADO fechado aqui)
+## Método
 
-O comparativo **na mesma sessão logada, com cache furado** que o CT exige NÃO foi reproduzido: o login com a credencial do `.env` (`TSTALFA1` / filial `SÃO PAULO - 1`) foi **recusado 2×** ("Verifique o nome de usuário/senha!"). As 2 superfícies live (navbar da tela de login + protocolo já renderizado) não exigiram nova autenticação; relatório e certificado vieram do disco do mesmo dia. O sinal é uniformemente KEV, mas sem o artefato single-session. **Veredito: BLOQUEADO (login) para o artefato consolidado** — recaptura numa sessão logada resolve.
+- Cache furado por hard reload em cada superfície de tela.
+- Identificadores técnicos preservados (`LogoKOVR.png` continua sendo o **nome do arquivo**;
+  o que mudou é o **conteúdo**) — a regressão desse eixo está no CT-MRC-009.
+- Credenciais deste ambiente: apenas por referência às chaves do `.env` — nenhuma credencial é
+  registrada neste artefato (repositório público).
